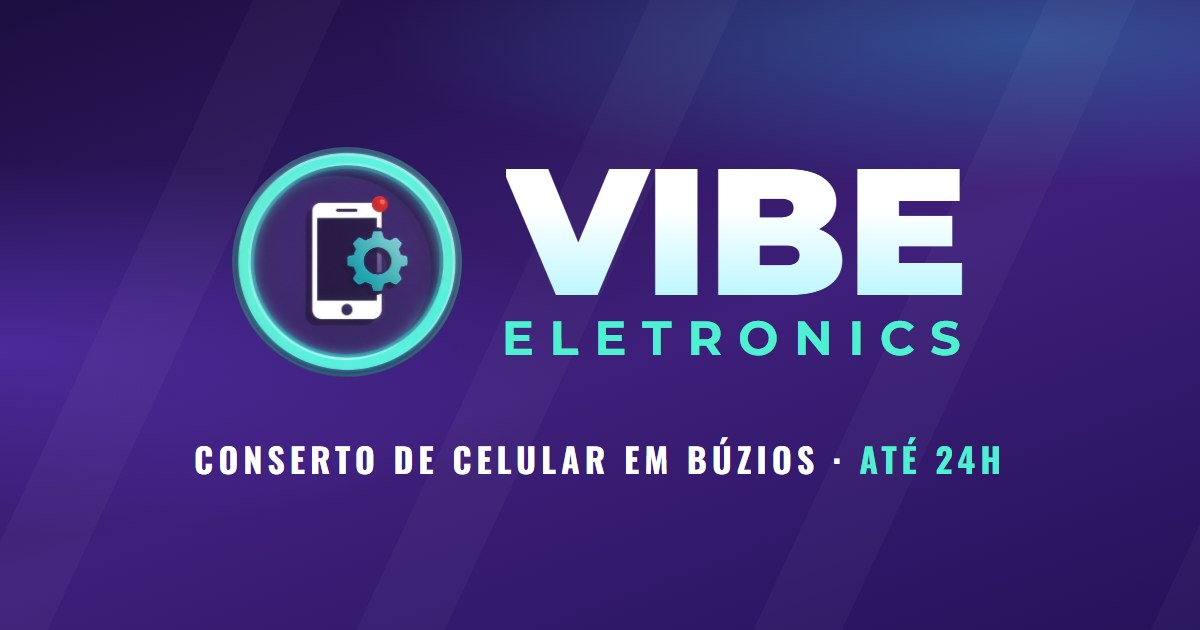
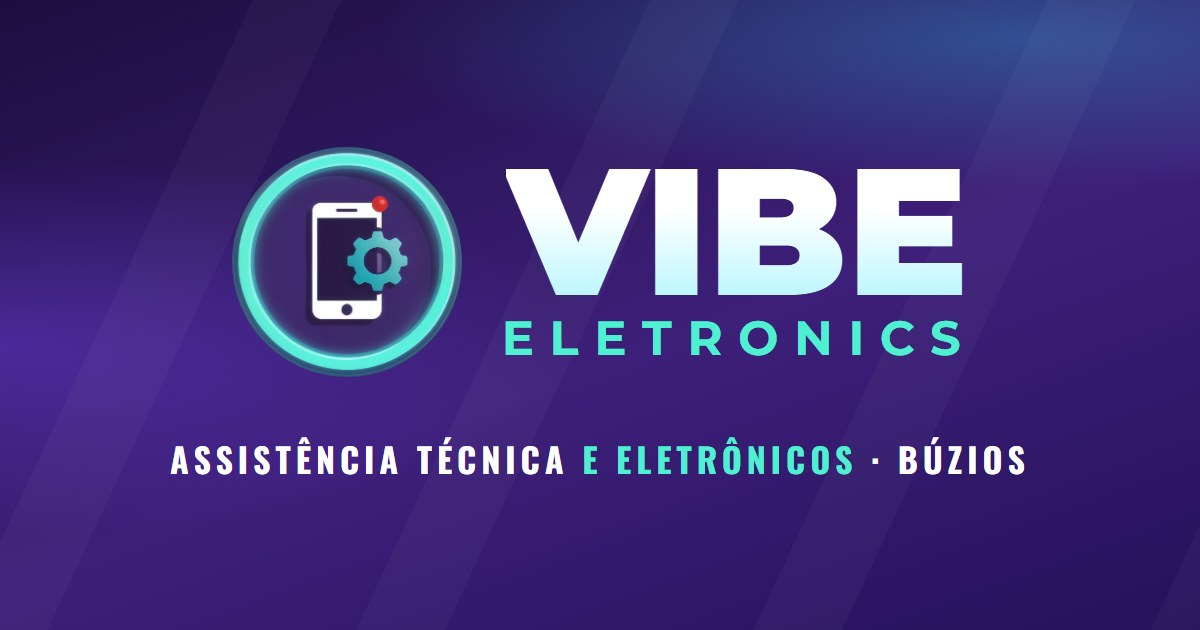
Landing: seção de produtos por categoria e consulta de produto pelo WhatsApp

Changed region(s): [[0.1233, 0.6937, 0.8633, 0.754]]

diff --git a/index.html b/index.html
@@ -3,10 +3,10 @@
 <head>
 <meta charset="utf-8">
 <meta name="viewport" content="width=device-width, initial-scale=1, viewport-fit=cover">
-<title>Vibe Eletronics · Conserto de celular em Búzios em até 24h</title>
-<meta name="description" content="Assistência técnica de celulares em Armação dos Búzios, RJ. Troca de tela, bateria e conector, banho químico e software. Conserto em até 24h, 1 mês de garantia e 6 lojas no Centro e em Manguinhos.">
-<meta property="og:title" content="Vibe Eletronics · Conserto de celular em Búzios">
-<meta property="og:description" content="Conserto em até 24h, com 1 mês de garantia. Peça seu orçamento pelo WhatsApp da loja mais perto de você.">
+<title>Vibe Eletronics · Assistência técnica e eletrônicos em Búzios</title>
+<meta name="description" content="Conserto de celular em até 24h e loja de eletrônicos em Armação dos Búzios, RJ: películas, capas, fones, carregadores, cabos, celulares e mais. 6 lojas no Centro e em Manguinhos.">
+<meta property="og:title" content="Vibe Eletronics · Assistência técnica e eletrônicos em Búzios">
+<meta property="og:description" content="Conserto em até 24h com garantia, e películas, capas, fones, carregadores e mais. Fale com a loja mais perto pelo WhatsApp.">
 <meta property="og:image" content="https://blade0667.github.io/vibe-eletronics/img/og.jpg">
 <meta property="og:url" content="https://blade0667.github.io/vibe-eletronics/">
 <link rel="canonical" href="https://blade0667.github.io/vibe-eletronics/">
@@ -22,7 +22,7 @@
   "@context": "https://schema.org",
   "@type": "LocalBusiness",
   "name": "Vibe Eletronics",
-  "description": "Assistência técnica de celulares e venda de capas e acessórios em Armação dos Búzios, RJ.",
+  "description": "Assistência técnica de celulares e loja de eletrônicos e acessórios em Armação dos Búzios, RJ.",
   "telephone": "+55 22 99183-7583",
   "address": { "@type": "PostalAddress", "addressLocality": "Armação dos Búzios", "addressRegion": "RJ", "addressCountry": "BR" },
   "areaServed": "Armação dos Búzios",
@@ -59,7 +59,7 @@ section { padding: clamp(60px, 8vw, 104px) 0; }
 
 /* ---------- Tipos ---------- */
 h1, h2, h3, .osw { font-family: "Oswald", sans-serif; font-weight: 700; text-transform: uppercase; letter-spacing: .035em; line-height: 1.06; }
-h1 { font-size: clamp(42px, 6.4vw, 78px); }
+h1 { font-size: clamp(38px, 5.4vw, 68px); }
 h2 { font-size: clamp(30px, 4.2vw, 48px); }
 h3 { font-size: 21px; letter-spacing: .05em; }
 em { font-style: normal; color: var(--mint); }
@@ -156,6 +156,14 @@ em { font-style: normal; color: var(--mint); }
 .servico b { display: block; font-size: 18px; font-weight: 800; line-height: 1.25; }
 .servico p { margin-top: 6px; font-size: 14.5px; line-height: 1.5; color: var(--muted); }
 
+/* produtos */
+.cat { padding: 22px; display: flex; flex-direction: column; align-items: flex-start; background: rgba(11,5,32,.45); transition: border-color .15s, transform .15s; }
+.cat:hover { border-color: var(--mint); transform: translateY(-3px); }
+.cat svg { width: 40px; height: 40px; color: var(--mint); margin-bottom: 12px; }
+.cat b { font-size: 18px; font-weight: 800; line-height: 1.25; }
+.cat p { margin: 6px 0 16px; font-size: 14.5px; line-height: 1.5; color: var(--muted); }
+.cat .btn { margin-top: auto; }
+
 /* diferenciais */
 .perk { display: flex; flex-direction: column; align-items: center; gap: 12px; padding: 30px 16px; text-align: center; border-radius: 22px;
   background: linear-gradient(160deg, rgba(79,240,210,.16), rgba(79,140,255,.1)); border: 1.5px solid rgba(79,240,210,.42); }
@@ -178,6 +186,15 @@ em { font-style: normal; color: var(--mint); }
 .check li::before { margin-top: 2px; }
 form.card { padding: clamp(22px, 3vw, 34px); display: grid; gap: 16px; background: rgba(11,5,32,.55); }
 label { display: grid; gap: 7px; font-size: 14px; font-weight: 700; }
+label[hidden] { display: none; }
+fieldset.tipo { border: 0; min-width: 0; }
+fieldset.tipo legend { font-size: 14px; font-weight: 700; margin-bottom: 7px; }
+.seg { display: grid; grid-template-columns: 1fr 1fr; gap: 6px; padding: 5px; border-radius: 16px; background: rgba(255,255,255,.07); border: 1.5px solid var(--line); }
+.seg label { display: block; cursor: pointer; }
+.seg input { all: unset; position: absolute; opacity: 0; }
+.seg span { display: block; padding: 11px 8px; border-radius: 11px; text-align: center; font-size: 14.5px; font-weight: 800; color: var(--muted); }
+.seg input:checked + span { background: var(--mint); color: var(--bg1); }
+.seg input:focus-visible + span { outline: 3px solid var(--mint); outline-offset: 2px; }
 input, select, textarea {
   width: 100%; padding: 13px 15px; border-radius: 14px; border: 1.5px solid var(--line);
   background: rgba(255,255,255,.07); color: #fff; font: 600 16px/1.4 "Montserrat", sans-serif;
@@ -241,7 +258,7 @@ footer a:hover { color: #fff; }
 @media (prefers-reduced-motion: reduce) {
   html { scroll-behavior: auto; }
   .js .surge { opacity: 1; translate: none; transition: none; }
-  .btn, .servico, .flutua { transition: none; }
+  .btn, .servico, .cat, .flutua { transition: none; }
 }
 </style>
 </head>
@@ -258,7 +275,8 @@ footer a:hover { color: #fff; }
       <span>VIBE<small>ELETRONICS</small></span>
     </a>
     <nav aria-label="Seções">
-      <a href="#servicos">Serviços</a>
+      <a href="#produtos">Produtos</a>
+      <a href="#servicos">Assistência</a>
       <a href="#como-funciona">Como funciona</a>
       <a href="#lojas">Lojas</a>
       <a href="#duvidas">Dúvidas</a>
@@ -273,17 +291,17 @@ footer a:hover { color: #fff; }
 <section class="hero glow">
   <div class="wrap">
     <div>
-      <p class="eyebrow">Assistência técnica em Búzios</p>
-      <h1>Celular quebrou? <em>Pronto em até 24h.</em></h1>
-      <p class="lead">A Vibe Eletronics conserta seu celular com <b>1 mês de garantia</b> em 6 lojas em Armação dos Búzios. Mande o modelo e o defeito pelo WhatsApp e receba o orçamento da loja mais perto de você.</p>
+      <p class="eyebrow">Assistência técnica e eletrônicos em Búzios</p>
+      <h1>Conserto em até 24h <em>e uma loja inteira de eletrônicos.</em></h1>
+      <p class="lead">A Vibe Eletronics conserta seu celular com <b>1 mês de garantia</b> e vende películas, capas, fones, carregadores, cabos, celulares e muito mais em <b>6 lojas em Armação dos Búzios</b>.</p>
       <div class="acoes">
         <a class="btn wa" href="#orcamento"><svg><use href="#wa"/></svg>Pedir orçamento</a>
-        <a class="btn linha" href="#lojas">Ver as 6 lojas</a>
+        <a class="btn linha" href="#produtos">Ver produtos</a>
       </div>
       <ul class="selos">
         <li>Conserto em até 24h</li>
         <li>1 mês de garantia</li>
-        <li>Parcele no cartão</li>
+        <li>Mais de 1.000 produtos</li>
       </ul>
     </div>
 
@@ -316,11 +334,36 @@ footer a:hover { color: #fff; }
   </div>
 </div>
 
+<!-- Produtos (categorias do sistema das lojas) -->
+<section id="produtos" class="glow">
+  <div class="wrap">
+    <div class="head surge">
+      <p class="eyebrow">Produtos</p>
+      <h2>Muito além <em>do conserto.</em></h2>
+      <p class="lead">São mais de 1.000 produtos nas lojas. A disponibilidade varia de uma loja para outra: toque em <b>Consultar</b> e pergunte pelo WhatsApp antes de ir.</p>
+    </div>
+    <div class="g4">
+      <article class="card cat surge"><svg viewBox="0 0 24 24" fill="none" stroke="currentColor" stroke-width="1.8" stroke-linecap="round" stroke-linejoin="round"><rect x="7" y="2" width="12" height="20" rx="2.5"/><path d="M4 6v14a2 2 0 0 0 2 2M10.5 7.5l2-2M10.5 11l5-5"/></svg><b>Películas</b><p>De vidro, cerâmica, hidrogel e 5D para Samsung, Motorola, iPhone, Xiaomi e LG.</p><button class="btn linha mini" type="button" data-cat="Películas">Consultar</button></article>
+      <article class="card cat surge"><svg viewBox="0 0 24 24" fill="none" stroke="currentColor" stroke-width="1.8" stroke-linecap="round" stroke-linejoin="round"><rect x="6" y="2" width="12" height="20" rx="3"/><rect x="8.5" y="4.5" width="4.5" height="4.5" rx="1.2"/></svg><b>Capas &amp; Cases</b><p>Silicone, transparente, magnética e carteira. Capas à prova d'água e cases para GoPro e HD.</p><button class="btn linha mini" type="button" data-cat="Capas &amp; Cases">Consultar</button></article>
+      <article class="card cat surge"><svg viewBox="0 0 24 24" fill="none" stroke="currentColor" stroke-width="1.8" stroke-linecap="round" stroke-linejoin="round"><path d="M3 18v-6a9 9 0 0 1 18 0v6"/><path d="M21 19a2 2 0 0 1-2 2h-1a2 2 0 0 1-2-2v-3a2 2 0 0 1 2-2h3zM3 19a2 2 0 0 0 2 2h1a2 2 0 0 0 2-2v-3a2 2 0 0 0-2-2H3z"/></svg><b>Áudio &amp; Fones</b><p>Fones Bluetooth e com fio, headphones, headsets e caixas de som, incluindo JBL.</p><button class="btn linha mini" type="button" data-cat="Áudio &amp; Fones">Consultar</button></article>
+      <article class="card cat surge"><svg viewBox="0 0 24 24" fill="none" stroke="currentColor" stroke-width="1.8" stroke-linecap="round" stroke-linejoin="round"><path d="M13 2L5 13.5h6L10 22l9-12h-6.5z"/></svg><b>Fontes &amp; Carregadores</b><p>Carregadores USB-C de até 65 W, veiculares, fontes de notebook e power banks.</p><button class="btn linha mini" type="button" data-cat="Fontes &amp; Carregadores">Consultar</button></article>
+      <article class="card cat surge"><svg viewBox="0 0 24 24" fill="none" stroke="currentColor" stroke-width="1.8" stroke-linecap="round" stroke-linejoin="round"><path d="M12 22v-5M9 7V2M15 7V2M7 7h10v5a5 5 0 0 1-10 0z"/></svg><b>Cabos &amp; Adaptadores</b><p>USB-C, iPhone, HDMI e P2, além de adaptadores e hubs USB.</p><button class="btn linha mini" type="button" data-cat="Cabos &amp; Adaptadores">Consultar</button></article>
+      <article class="card cat surge"><svg viewBox="0 0 24 24" fill="none" stroke="currentColor" stroke-width="1.8" stroke-linecap="round" stroke-linejoin="round"><rect x="6" y="2" width="12" height="20" rx="2.5"/><path d="M10.5 18.5h3"/></svg><b>Celulares &amp; Tablets</b><p>Aparelhos Motorola, Xiaomi, Samsung e LG, do básico ao smartphone.</p><button class="btn linha mini" type="button" data-cat="Celulares &amp; Tablets">Consultar</button></article>
+      <article class="card cat surge"><svg viewBox="0 0 24 24" fill="none" stroke="currentColor" stroke-width="1.8" stroke-linecap="round" stroke-linejoin="round"><rect x="2" y="4" width="20" height="13" rx="2"/><path d="M8 21h8M12 17v4"/></svg><b>Informática &amp; TV</b><p>Mouses, teclados, pendrives, cartões de memória, roteadores e controles de TV e de videogame.</p><button class="btn linha mini" type="button" data-cat="Informática &amp; TV">Consultar</button></article>
+      <article class="card cat surge"><svg viewBox="0 0 24 24" fill="none" stroke="currentColor" stroke-width="1.8" stroke-linecap="round" stroke-linejoin="round"><rect x="7" y="5" width="10" height="17" rx="2"/><path d="M10 5V2.5h4V5M10 12h4M12 10v4M10.5 17.5h3"/></svg><b>Pilhas &amp; Baterias</b><p>Pilhas alcalinas e recarregáveis, baterias tipo moeda, 9V e 23A.</p><button class="btn linha mini" type="button" data-cat="Pilhas &amp; Baterias">Consultar</button></article>
+      <article class="card cat surge"><svg viewBox="0 0 24 24" fill="none" stroke="currentColor" stroke-width="1.8" stroke-linecap="round" stroke-linejoin="round"><path d="M6 8h12l1.2 12.2a1.6 1.6 0 0 1-1.6 1.8H6.4a1.6 1.6 0 0 1-1.6-1.8z"/><path d="M9 8V6.5a3 3 0 0 1 6 0V8"/></svg><b>Acessórios &amp; Geral</b><p>Suportes de celular e veiculares, acessórios para GoPro, smartwatches, ring lights e tripés.</p><button class="btn linha mini" type="button" data-cat="Acessórios &amp; Geral">Consultar</button></article>
+      <article class="card cat surge"><svg viewBox="0 0 24 24" fill="none" stroke="currentColor" stroke-width="1.8" stroke-linecap="round" stroke-linejoin="round"><circle cx="6.5" cy="14.5" r="3.5"/><circle cx="17.5" cy="14.5" r="3.5"/><path d="M10 14.5a2 2 0 0 1 4 0M3 14l2-7M21 14l-2-7"/></svg><b>Óculos &amp; Ótica</b><p>Óculos de sol, polarizados, de grau prontos e de natação.</p><button class="btn linha mini" type="button" data-cat="Óculos &amp; Ótica">Consultar</button></article>
+      <article class="card cat surge"><svg viewBox="0 0 24 24" fill="none" stroke="currentColor" stroke-width="1.8" stroke-linecap="round" stroke-linejoin="round"><rect x="2" y="7" width="20" height="11" rx="5.5"/><path d="M7 11v3M5.5 12.5h3M15.5 11.5v.01M18 13.5v.01"/></svg><b>Games &amp; Brinquedos</b><p>Brinquedos, jogos, baralhos e livros de colorir para as crianças.</p><button class="btn linha mini" type="button" data-cat="Games &amp; Brinquedos">Consultar</button></article>
+      <article class="card cat surge"><svg viewBox="0 0 24 24" fill="none" stroke="currentColor" stroke-width="1.8" stroke-linecap="round" stroke-linejoin="round"><path d="M6 8h12l-1.5 13h-9zM5 8h14M9 8l1-5h4l1 5"/></svg><b>Praia &amp; Térmicos</b><p>Copos, canecas e garrafas térmicas, cadeiras, cangas, bodyboard e frescobol.</p><button class="btn linha mini" type="button" data-cat="Praia &amp; Térmicos">Consultar</button></article>
+    </div>
+  </div>
+</section>
+
 <!-- Serviços -->
 <section id="servicos" class="escuro">
   <div class="wrap">
     <div class="head surge">
-      <p class="eyebrow">Serviços</p>
+      <p class="eyebrow">Assistência técnica</p>
       <h2>Do vidro trincado ao <em>celular que caiu na água.</em></h2>
     </div>
     <div class="g4">
@@ -347,7 +390,7 @@ footer a:hover { color: #fff; }
       <div class="perk surge"><svg viewBox="0 0 24 24" fill="none" stroke="currentColor" stroke-width="2" stroke-linecap="round" stroke-linejoin="round"><circle cx="12" cy="13.5" r="8"/><path d="M12 9.5v4l2.500 2M10 2h4M12 2v3.500"/></svg><b>Até 24h</b><span>Seu celular consertado em até um dia.</span></div>
       <div class="perk surge"><svg viewBox="0 0 24 24" fill="none" stroke="currentColor" stroke-width="2" stroke-linecap="round" stroke-linejoin="round"><path d="M12 22s8-4 8-10V5l-8-3-8 3v7c0 6 8 10 8 10z"/><path d="M8.500 12l2.500 2.500 4.500-5"/></svg><b>1 mês</b><span>De garantia em todo serviço.</span></div>
       <div class="perk surge"><svg viewBox="0 0 24 24" fill="none" stroke="currentColor" stroke-width="2" stroke-linecap="round" stroke-linejoin="round"><rect x="2" y="5" width="20" height="14" rx="2.500"/><path d="M2 10h20M6 15h4"/></svg><b>No cartão</b><span>Parcele o conserto no cartão de crédito.</span></div>
-      <div class="perk surge"><svg viewBox="0 0 24 24" fill="none" stroke="currentColor" stroke-width="2" stroke-linecap="round" stroke-linejoin="round"><path d="M12 22s7-6.200 7-12a7 7 0 0 0-14 0c0 5.800 7 12 7 12z"/><circle cx="12" cy="10" r="2.500"/></svg><b>6 lojas</b><span>No Centro e em Manguinhos, com capas e acessórios.</span></div>
+      <div class="perk surge"><svg viewBox="0 0 24 24" fill="none" stroke="currentColor" stroke-width="2" stroke-linecap="round" stroke-linejoin="round"><path d="M12 22s7-6.200 7-12a7 7 0 0 0-14 0c0 5.800 7 12 7 12z"/><circle cx="12" cy="10" r="2.500"/></svg><b>6 lojas</b><span>No Centro e em Manguinhos, com assistência e produtos.</span></div>
     </div>
   </div>
 </section>
@@ -371,16 +414,23 @@ footer a:hover { color: #fff; }
 <section id="orcamento" class="glow">
   <div class="wrap orc">
     <div class="surge">
-      <p class="eyebrow">Orçamento</p>
-      <h2>Peça agora, <em>direto com a loja.</em></h2>
-      <p class="lead">Preencha os dados e o seu WhatsApp abre com a mensagem pronta para a loja escolhida. É só enviar.</p>
+      <p class="eyebrow">Orçamento e consulta</p>
+      <h2>Fale agora, <em>direto com a loja.</em></h2>
+      <p class="lead">Peça o orçamento de um conserto ou pergunte se um produto está disponível. O seu WhatsApp abre com a mensagem pronta para a loja escolhida.</p>
       <ul class="check">
         <li>A mensagem vai do seu WhatsApp para o da loja.</li>
         <li>Nada do que você digita fica guardado neste site.</li>
-        <li>Você fala com a unidade que vai fazer o conserto.</li>
+        <li>Você fala com a unidade que vai atender você.</li>
       </ul>
     </div>
     <form class="card surge" id="form-orc" novalidate>
+      <fieldset class="tipo">
+        <legend>O que você precisa?</legend>
+        <div class="seg">
+          <label><input type="radio" name="tipo" value="conserto" checked><span>Consertar o celular</span></label>
+          <label><input type="radio" name="tipo" value="produto"><span>Consultar um produto</span></label>
+        </div>
+      </fieldset>
       <label>Loja
         <select id="f-loja" required>
           <option value="" disabled selected>Escolha a loja mais perto</option>
@@ -389,10 +439,10 @@ footer a:hover { color: #fff; }
       <label>Seu nome
         <input id="f-nome" type="text" autocomplete="given-name" placeholder="Como podemos te chamar?" required>
       </label>
-      <label>Marca e modelo do aparelho
+      <label id="l-aparelho">Marca e modelo do aparelho
         <input id="f-aparelho" type="text" placeholder="Ex.: Samsung A54" required>
       </label>
-      <label>O que aconteceu?
+      <label><span id="t-defeito">O que aconteceu?</span>
         <textarea id="f-defeito" rows="3" placeholder="Ex.: caiu no chão e a tela trincou" required></textarea>
       </label>
       <button class="btn wa largo" type="submit"><svg><use href="#wa"/></svg>Enviar pelo WhatsApp</button>
@@ -448,7 +498,7 @@ footer a:hover { color: #fff; }
       <details class="surge"><summary>Meu celular caiu na água. O que eu faço?</summary><p>Chame a loja o quanto antes. A Vibe faz banho químico e desoxidação, os serviços indicados para aparelhos que tiveram contato com líquido.</p></details>
       <details class="surge"><summary>Posso parcelar?</summary><p>Sim, o conserto pode ser parcelado no cartão de crédito.</p></details>
       <details class="surge"><summary>Como ganho os 5% de desconto?</summary><p>Siga o perfil @vibe.eletronics no Instagram e mostre na loja.</p></details>
-      <details class="surge"><summary>Vocês vendem acessórios?</summary><p>Sim. As lojas vendem capas e acessórios para celular.</p></details>
+      <details class="surge"><summary>O que vocês vendem além do conserto?</summary><p>Películas, capas, fones e caixas de som, carregadores, cabos, pilhas, celulares, itens de informática, óculos, brinquedos e produtos de praia. A disponibilidade varia de loja para loja: consulte pelo WhatsApp antes de ir.</p></details>
     </div>
   </div>
 </section>
@@ -457,10 +507,10 @@ footer a:hover { color: #fff; }
 <section class="glow fim">
   <div class="wrap surge">
     <h2>Seu celular funcionando de novo <em>em até 24 horas.</em></h2>
-    <p class="lead" style="margin-inline:auto">Mande o modelo e o defeito e receba o orçamento da loja mais perto de você.</p>
+    <p class="lead" style="margin-inline:auto">Peça o orçamento do conserto ou consulte um produto na loja mais perto de você.</p>
     <div class="acoes">
       <a class="btn wa" href="#orcamento"><svg><use href="#wa"/></svg>Pedir orçamento</a>
-      <a class="btn linha" href="#lojas">Ver as lojas</a>
+      <a class="btn linha" href="#produtos">Ver produtos</a>
     </div>
   </div>
 </section>
@@ -528,18 +578,45 @@ for (const bairro of bairros) {
 }
 function escolherLoja(fone) {
   select.value = fone;
+  form.elements.tipo.value = "conserto";
+  ajustarTipo();
   document.getElementById("orcamento").scrollIntoView();
   document.getElementById("f-nome").focus({ preventScroll: true });
 }
 
 // ---------- Orçamento: monta a mensagem e abre o WhatsApp da loja ----------
+const form = document.getElementById("form-orc");
+const tipo = () => form.elements.tipo.value;
 function montarLink() {
   const loja = LOJAS.find(l => l.fone === select.value);
   const v = id => document.getElementById(id).value.trim();
-  const texto = `*PRÉ-REGISTRO DE MANUTENÇÃO*\n\n*Loja:* ${loja.nome}\n*Cliente:* ${v("f-nome")}\n*Aparelho:* ${v("f-aparelho")}\n*Defeito relatado:* ${v("f-defeito")}\n\n_Olá! Vim pelo site e gostaria de um orçamento._`;
+  const texto = tipo() === "produto"
+    ? `*CONSULTA DE PRODUTO*\n\n*Loja:* ${loja.nome}\n*Cliente:* ${v("f-nome")}\n*Produto:* ${v("f-defeito")}\n\n_Olá! Vim pelo site e gostaria de saber se vocês têm esse produto._`
+    : `*PRÉ-REGISTRO DE MANUTENÇÃO*\n\n*Loja:* ${loja.nome}\n*Cliente:* ${v("f-nome")}\n*Aparelho:* ${v("f-aparelho")}\n*Defeito relatado:* ${v("f-defeito")}\n\n_Olá! Vim pelo site e gostaria de um orçamento._`;
   return `https://wa.me/${loja.fone}?text=${encodeURIComponent(texto)}`;
 }
-const form = document.getElementById("form-orc");
+// troca os campos conforme o tipo de pedido
+let tipoAnterior = "conserto";
+function ajustarTipo() {
+  const produto = tipo() === "produto";
+  if (tipo() !== tipoAnterior) document.getElementById("f-defeito").value = ""; // não leva o texto de um modo para o outro
+  tipoAnterior = tipo();
+  const aparelho = document.getElementById("f-aparelho");
+  document.getElementById("l-aparelho").hidden = produto;
+  aparelho.required = !produto;
+  document.getElementById("t-defeito").textContent = produto ? "Qual produto você procura?" : "O que aconteceu?";
+  document.getElementById("f-defeito").placeholder = produto ? "Ex.: película para Moto G54" : "Ex.: caiu no chão e a tela trincou";
+}
+form.elements.tipo.forEach(r => r.addEventListener("change", ajustarTipo));
+// botão "Consultar" de cada categoria: abre o formulário já no modo produto
+document.querySelectorAll("[data-cat]").forEach(b => b.addEventListener("click", () => {
+  form.elements.tipo.value = "produto";
+  ajustarTipo();
+  const campo = document.getElementById("f-defeito");
+  campo.value = b.dataset.cat + ": ";
+  document.getElementById("orcamento").scrollIntoView();
+  campo.focus({ preventScroll: true });
+}));
 form.addEventListener("submit", e => {
   e.preventDefault();
   if (!form.checkValidity()) { form.reportValidity(); return; }

diff --git a/README.md b/README.md
@@ -1,11 +1,12 @@
 # Vibe Eletronics · Landing page
 
-Página da Vibe Eletronics para clientes: serviços, diferenciais, pedido de orçamento pelo WhatsApp, lojas e dúvidas frequentes.
+Página da Vibe Eletronics para clientes: produtos, assistência técnica, diferenciais, orçamento e consulta de produto pelo WhatsApp, lojas e dúvidas frequentes.
 
 É um único arquivo (`index.html`), sem etapa de build. Pronta para GitHub Pages.
 
 ## Como atualizar
 
 - **Lojas e telefones:** edite a lista `LOJAS` no fim do `index.html`. Os cartões e o formulário usam essa lista.
+- **Categorias de produtos:** os 12 cartões da seção Produtos seguem as categorias do sistema das lojas (sem preços nem estoque). Edite direto no HTML.
 - **Textos e perguntas frequentes:** direto no HTML.
 - **Capa de compartilhamento (`img/og.jpg`):** gerada por `Media Kit/fontes/social.html#og-site`.
